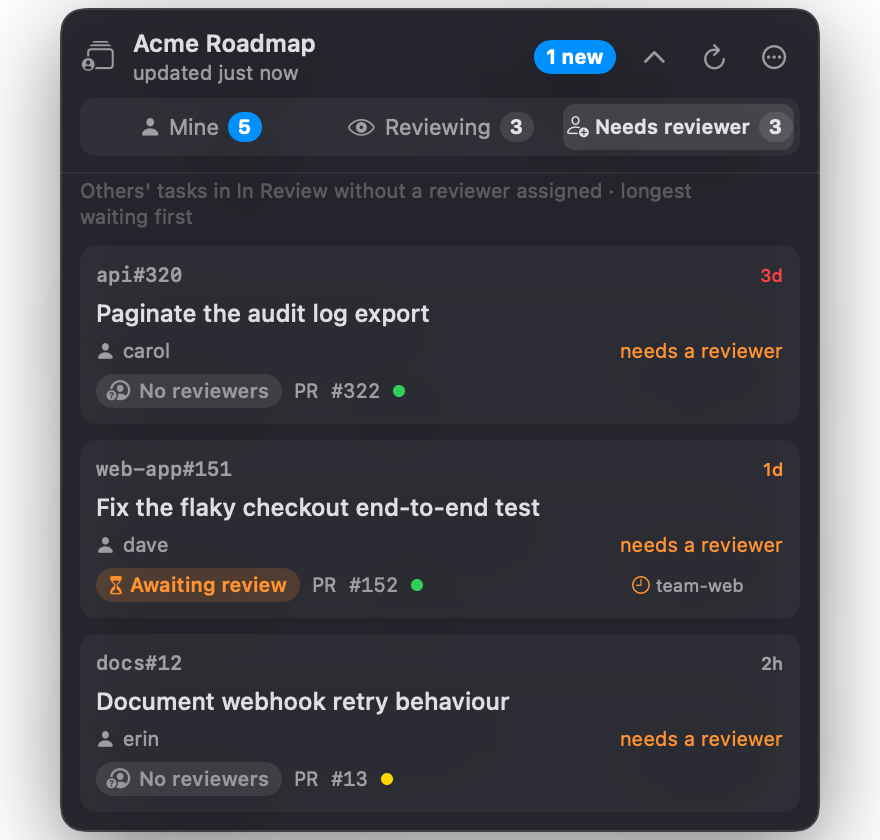
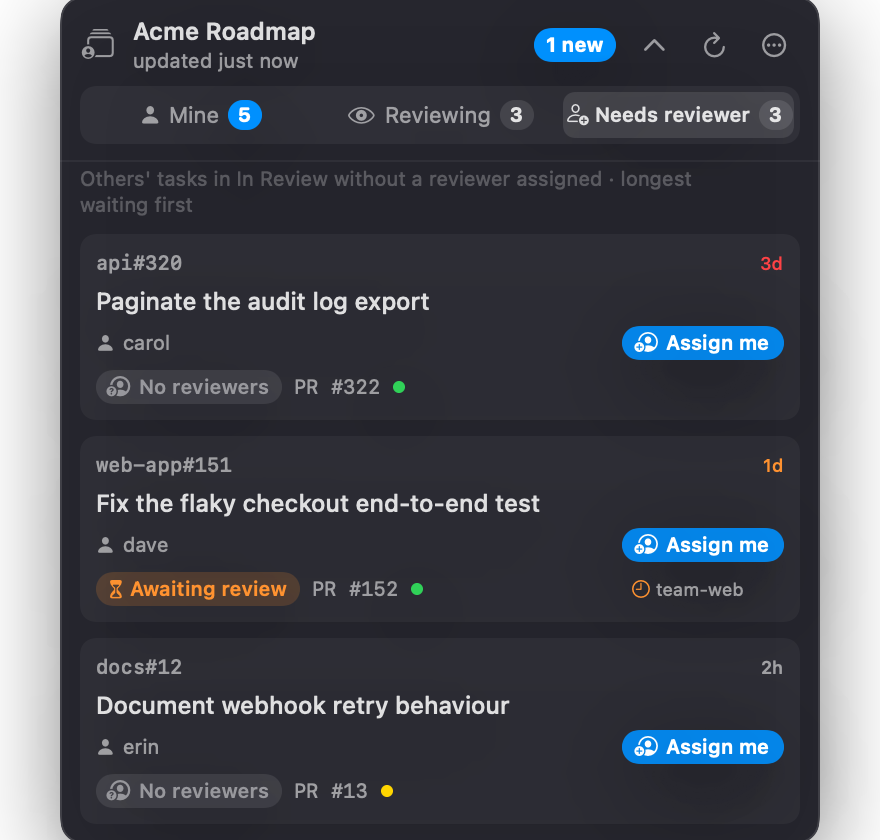
feat: assign yourself as reviewer from the Needs reviewer tab

diff --git a/Sources/GitHubFloat/Views.swift b/Sources/GitHubFloat/Views.swift
@@ -260,7 +260,9 @@ struct ContentView: View {
         return TaskRow(task: task,
                        viewer: store.viewer,
                        tab: tab,
-                       isNew: store.changed.contains(key)) { store.acknowledge(key) }
+                       isNew: store.changed.contains(key),
+                       onAssign: tab == .open && (staticLayout || store.canAssignMe(task)) ? { store.assignMe(task) } : nil,
+                       assigning: store.assigning.contains(task.id)) { store.acknowledge(key) }
             .id(key + task.signature) // redraw when the card moves between sections
     }
 
@@ -380,6 +382,8 @@ struct TaskRow: View {
     let viewer: String
     let tab: Tab
     let isNew: Bool
+    var onAssign: (() -> Void)? = nil
+    var assigning = false
     let onSeen: () -> Void
     @State private var hover = false
 
@@ -420,7 +424,11 @@ struct TaskRow: View {
                     Image(systemName: "person.fill").font(.system(size: 9))
                     Text(task.assignees.first ?? "Unassigned")
                     Spacer(minLength: 0)
-                    Text("needs a reviewer").foregroundStyle(.orange)
+                    if let onAssign {
+                        assignButton(onAssign)
+                    } else {
+                        Text("needs a reviewer").foregroundStyle(.orange)
+                    }
                 }
                 .font(.system(size: 10))
                 .foregroundStyle(.secondary)
@@ -448,6 +456,7 @@ struct TaskRow: View {
         .onHover { hover = $0; if $0 && isNew { onSeen() } }
         .onTapGesture { open(task.prs.first?.url ?? task.url) }
         .contextMenu {
+            if let onAssign, !assigning { Button("Assign Me as Reviewer") { onSeen(); onAssign() }; Divider() }
             if let url = task.url { Button("Open \(task.kind == "PullRequest" ? "Pull Request" : "Issue")") { open(url) } }
             ForEach(task.prs) { pr in Button("Open PR #\(pr.number)") { open(pr.url) } }
             Divider()
@@ -459,6 +468,26 @@ struct TaskRow: View {
             }
         }
         .help(task.title)
+    }
+
+    private func assignButton(_ action: @escaping () -> Void) -> some View {
+        Button { onSeen(); action() } label: {
+            HStack(spacing: 3) {
+                if assigning {
+                    ProgressView().controlSize(.mini).scaleEffect(0.7).frame(width: 10, height: 10)
+                } else {
+                    Image(systemName: "person.crop.circle.badge.plus").font(.system(size: 10))
+                }
+                Text(assigning ? "Assigning…" : "Assign me").font(.system(size: 10, weight: .semibold))
+            }
+            .padding(.horizontal, 7)
+            .padding(.vertical, 2)
+            .foregroundStyle(.white)
+            .background(Capsule().fill(Color.accentColor.opacity(assigning ? 0.5 : 0.9)))
+        }
+        .buttonStyle(.plain)
+        .disabled(assigning)
+        .help("Add yourself as the reviewer (second assignee) of this task")
     }
 
     private var reviewingLine: some View {

diff --git a/Sources/GitHubFloat/Model.swift b/Sources/GitHubFloat/Model.swift
@@ -345,6 +345,8 @@ final class Store: ObservableObject {
     @Published private(set) var error: String?
     @Published private(set) var loading = false
     @Published private(set) var changed: Set<String> = []
+    /// Tasks being assigned to you right now (item ids).
+    @Published private(set) var assigning: Set<String> = []
 
     let settings: Settings
     private let client = GitHubClient()
@@ -443,6 +445,27 @@ final class Store: ObservableObject {
     func loadDemo(_ snap: BoardSnapshot, changed ids: Set<String>) {
         apply(snap)
         changed = ids
+    }
+
+    func canAssignMe(_ task: BoardTask) -> Bool {
+        task.kind != "DraftIssue" && task.contentId != nil && board != nil && !task.assignees.contains(viewer)
+    }
+
+    /// Picks up a task as its reviewer: adds you as an assignee, then it shows up in "Reviewing".
+    func assignMe(_ task: BoardTask) {
+        guard canAssignMe(task), let content = task.contentId, let board, !assigning.contains(task.id) else { return }
+        assigning.insert(task.id)
+        Task { [weak self] in
+            guard let self else { return }
+            do {
+                try await client.addAssignee(board.viewerId, to: content)
+                error = nil
+            } catch {
+                self.error = "Could not assign you to \(task.title): \(error.localizedDescription)"
+            }
+            await refresh()
+            assigning.remove(task.id)
+        }
     }
 
     func acknowledge(_ id: String) { changed.remove(id) }

diff --git a/Sources/GitHubFloat/GitHubClient.swift b/Sources/GitHubFloat/GitHubClient.swift
@@ -255,6 +255,12 @@ actor GitHubClient {
         """, ["p": projectId, "i": itemId, "f": fieldId, "o": optionId])
     }
 
+    func addAssignee(_ userId: String, to assignableId: String) async throws {
+        try await mutate("""
+        mutation($a:ID!, $u:ID!) { addAssigneesToAssignable(input:{assignableId:$a, assigneeIds:[$u]}) { clientMutationId } }
+        """, ["a": assignableId, "u": userId])
+    }
+
     func removeAssignee(_ userId: String, from assignableId: String) async throws {
         try await mutate("""
         mutation($a:ID!, $u:ID!) { removeAssigneesFromAssignable(input:{assignableId:$a, assigneeIds:[$u]}) { clientMutationId } }

diff --git a/README.md b/README.md
@@ -39,7 +39,7 @@ Your PR sits in **In Review** for two days because nobody noticed it. A teammate
 - 👀 **Reviewing**: the tasks you are reviewing for teammates, split into *Your turn* and *Waiting on the author*, with a notification when a re-review is requested.
 - 🚚 **Moves the card for you**: approve and the card goes to the next status (e.g. *Reviewed*); request changes and it goes back to *In Progress* and you're unassigned. Toggle it with *Move Cards After My Review*.
 - 🔍 **Review state at a glance**: *awaiting review*, *being reviewed*, *changes requested*, *approved*, *merged*, plus the reviewers and CI status (✅ ❌ ⏳).
-- 🙋 **Needs reviewer**: teammates' tasks in review with no second assignee, so you can pick one up in one click.
+- 🙋 **Needs reviewer**: teammates' tasks in review with no second assignee, and an **Assign me** button that adds you as the reviewer without opening GitHub (the task then moves to *Reviewing*).
 - ⏱ **Time in status**: an age badge turns orange after 24h and red after 72h.
 - 🔔 **Native notifications** when something needs you: a new review, changes requested, approval, failing CI, merged PR, a task moved forward, or a new task waiting for a reviewer. Each kind of event has its own synth sound (needs you, good news, bad news, comment), and you can preview them or switch to the macOS default in the *Sound* menu.
 - ⚡ **Efficient**: one GraphQL request per poll for all tabs. Polling pauses while your Mac sleeps or is locked and backs off on errors.
